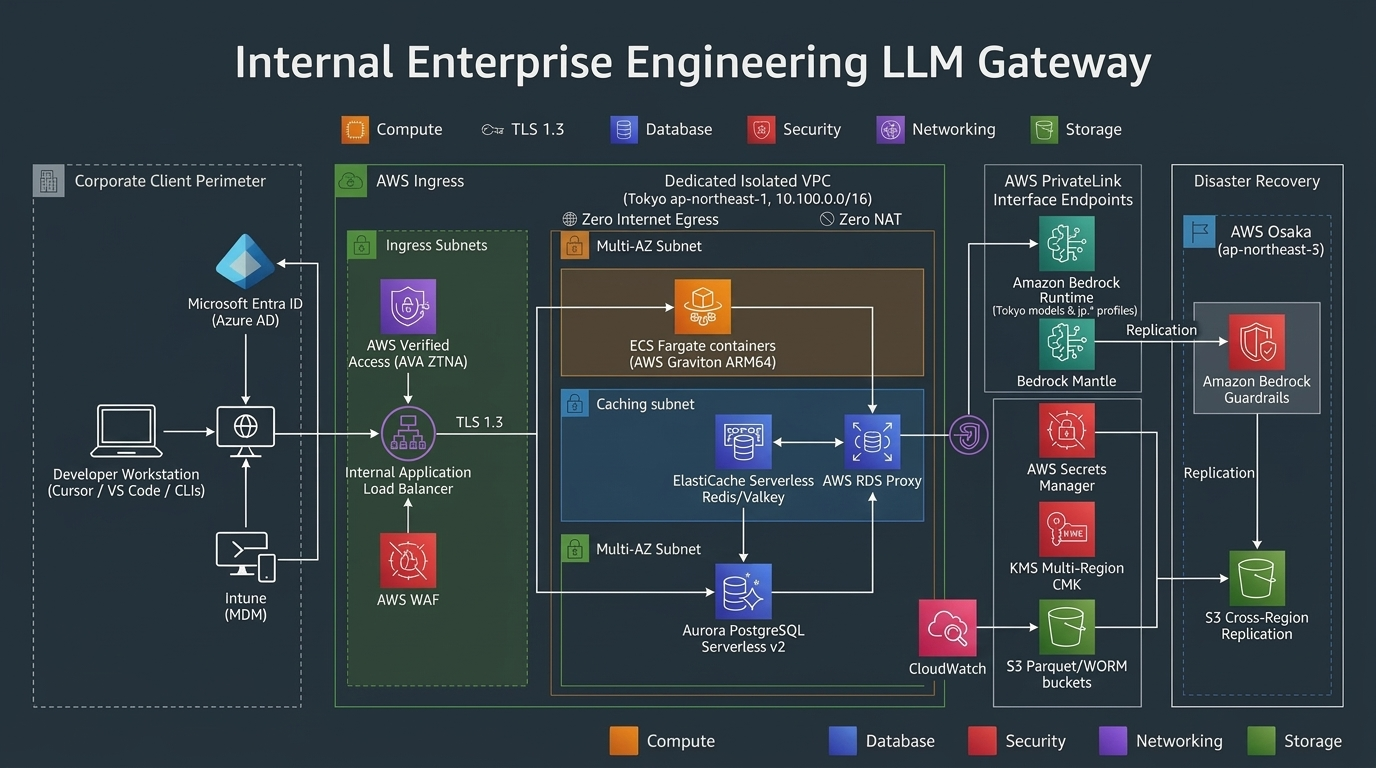
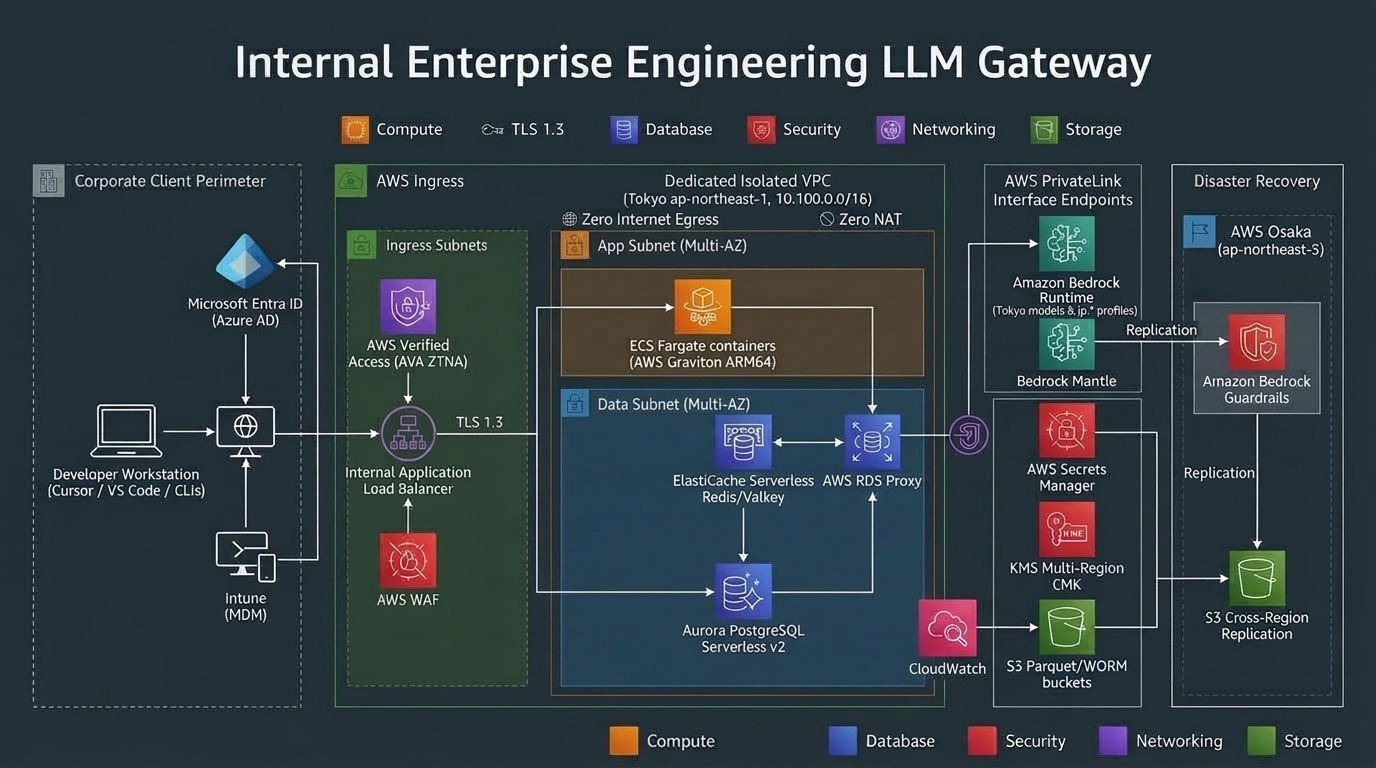
docs: fix Multi-AZ subnet boxes in architecture diagram per infrastructure spec

diff --git a/assets/infra_overview_diagram.md b/assets/infra_overview_diagram.md
@@ -1,0 +1,56 @@
+# Enterprise Engineering LLM Gateway: Infrastructure Architecture Overview
+
+![Internal Enterprise Engineering LLM Gateway Architecture](infra_overview_diagram.jpg)
+
+This document provides the high-level architecture overview and subnet tier mapping corresponding to the authoritative physical infrastructure specification in [INFRASTRUCTURE_SPEC.md](../INFRASTRUCTURE_SPEC.md).
+
+---
+
+## 1. Network Topology & Multi-AZ Subnet Architecture
+
+The platform is deployed in a dedicated, greenfield isolated VPC (`10.100.0.0/16`) in AWS Tokyo (`ap-northeast-1`) spanning **3 Availability Zones** (`ap-northeast-1a`, `ap-northeast-1c`, `ap-northeast-1d`) with **Zero Internet Gateways**, **Zero NAT Gateways**, and **Zero Egress-Only Gateways**.
+
+### Subnet Allocation & Multi-AZ Placement
+
+| Subnet Identifier | Availability Zone | CIDR Block | Usable IPs | Tier / Workload | Associated Services |
+| :--- | :--- | :--- | :--- | :--- | :--- |
+| `sn-ingress-1a` | `ap-northeast-1a` | `10.100.0.0/24` | 251 | **Ingress Subnets** | AWS Verified Access (AVA) ENIs, Internal ALB ENIs |
+| `sn-ingress-1c` | `ap-northeast-1c` | `10.100.1.0/24` | 251 | **Ingress Subnets** | AWS Verified Access (AVA) ENIs, Internal ALB ENIs |
+| `sn-ingress-1d` | `ap-northeast-1d` | `10.100.2.0/24` | 251 | **Ingress Subnets** | AWS Verified Access (AVA) ENIs, Internal ALB ENIs |
+| `sn-app-1a` | `ap-northeast-1a` | `10.100.16.0/20` | 4,091 | **App Subnets** | ECS Fargate Proxy Tasks (AWS Graviton ARM64) |
+| `sn-app-1c` | `ap-northeast-1c` | `10.100.32.0/20` | 4,091 | **App Subnets** | ECS Fargate Proxy Tasks (AWS Graviton ARM64) |
+| `sn-app-1d` | `ap-northeast-1d` | `10.100.48.0/20` | 4,091 | **App Subnets** | ECS Fargate Proxy Tasks (AWS Graviton ARM64) |
+| `sn-data-1a` | `ap-northeast-1a` | `10.100.64.0/24` | 251 | **Data Subnets** | Aurora Serverless v2, ElastiCache Serverless, RDS Proxy |
+| `sn-data-1c` | `ap-northeast-1c` | `10.100.65.0/24` | 251 | **Data Subnets** | Aurora Serverless v2, ElastiCache Serverless, RDS Proxy |
+| `sn-data-1d` | `ap-northeast-1d` | `10.100.66.0/24` | 251 | **Data Subnets** | Aurora Serverless v2, ElastiCache Serverless, RDS Proxy |
+| `sn-vpce-1a` | `ap-northeast-1a` | `10.100.80.0/24` | 251 | **Endpoint Subnets** | AWS PrivateLink Interface Endpoints (Bedrock, KMS, Secrets Mgr) |
+| `sn-vpce-1c` | `ap-northeast-1c` | `10.100.81.0/24` | 251 | **Endpoint Subnets** | AWS PrivateLink Interface Endpoints (Bedrock, KMS, Secrets Mgr) |
+| `sn-vpce-1d` | `ap-northeast-1d` | `10.100.82.0/24` | 251 | **Endpoint Subnets** | AWS PrivateLink Interface Endpoints (Bedrock, KMS, Secrets Mgr) |
+
+---
+
+## 2. Component Tier Breakdown & Data Flows
+
+### Ingress & Edge Security Tier
+* **Corporate Client Perimeter:** Intune-managed workstations (Cursor, VS Code, terminal CLIs) authenticate via **Microsoft Entra ID (OIDC)** and pass cryptographic device compliance claims.
+* **AWS Verified Access (AVA ZTNA):** Regional edge evaluation of Cedar policies, injecting signed `x-amzn-ava-user-context` headers.
+* **Ingress Subnets:** Internal Application Load Balancer terminating TLS 1.3, protected by **AWS WAF v2 WebACL** (inspecting AVA context headers and enforcing rate limits).
+
+### Compute & Application Tier (`App Subnets`)
+* **ECS Fargate Graviton ARM64:** High-performance async proxy containers running Gunicorn with Uvicorn workers.
+* **Dual-Pass DLP Inspection:** Tier 1 in-memory regex scanner (<1.5ms) blocking hard secrets (`HTTP 422`), redacting PII, and stripping outbound exfiltration image tags via a 128-char ring buffer.
+
+### Persistence & Caching Tier (`Data Subnets`)
+* **ElastiCache Serverless (Redis / Valkey):** Multi-AZ low-latency state for atomic Lua quota reservations and sliding-window rate limit counters.
+* **AWS RDS Proxy:** Connection pool multiplexing up to 5,000 container connections down to 120 pinned PostgreSQL sessions.
+* **Aurora PostgreSQL Serverless v2:** Multi-AZ authoritative datastore scaling elastically (2.0 to 32.0 ACUs) for users, virtual key hashes, and FinOps ledger transactions.
+
+### Upstream Model & Management Tier (`Endpoint Subnets` / PrivateLink)
+* **AWS PrivateLink Interface Endpoints:** Dedicated private ENIs for zero-egress communication with AWS services.
+* **Amazon Bedrock Guardrails:** Semantic safety layer enforcing Prompt Attack / Jailbreak defense (HIGH filter), denied topic policies, and Japan PII redaction (My Number / credit cards) in front of **Amazon Bedrock Runtime** (`jp.*` sovereign cross-region profiles & Tokyo models) and **Bedrock Mantle**.
+* **Secrets & Encryption:** AWS Secrets Manager for model credentials; KMS Multi-Region Customer Managed Keys (`mrk-llm-gw`) for envelope encryption.
+* **Audit & Storage:** CloudWatch Logs (zero payload, SHA-256 prompt hashes only) and S3 Parquet/WORM buckets with Object Lock.
+
+### Disaster Recovery Tier (AWS Osaka `ap-northeast-3`)
+* **Warm Standby:** Asynchronous cross-region storage replication via **Aurora Global Database** (RPO < 1 min) and S3 Cross-Region Replication (CRR).
+* **Failover Readiness:** Route 53 ARC automated routing controls with pre-warmed ECS Fargate standby capacity in Osaka (RTO < 15 min).
